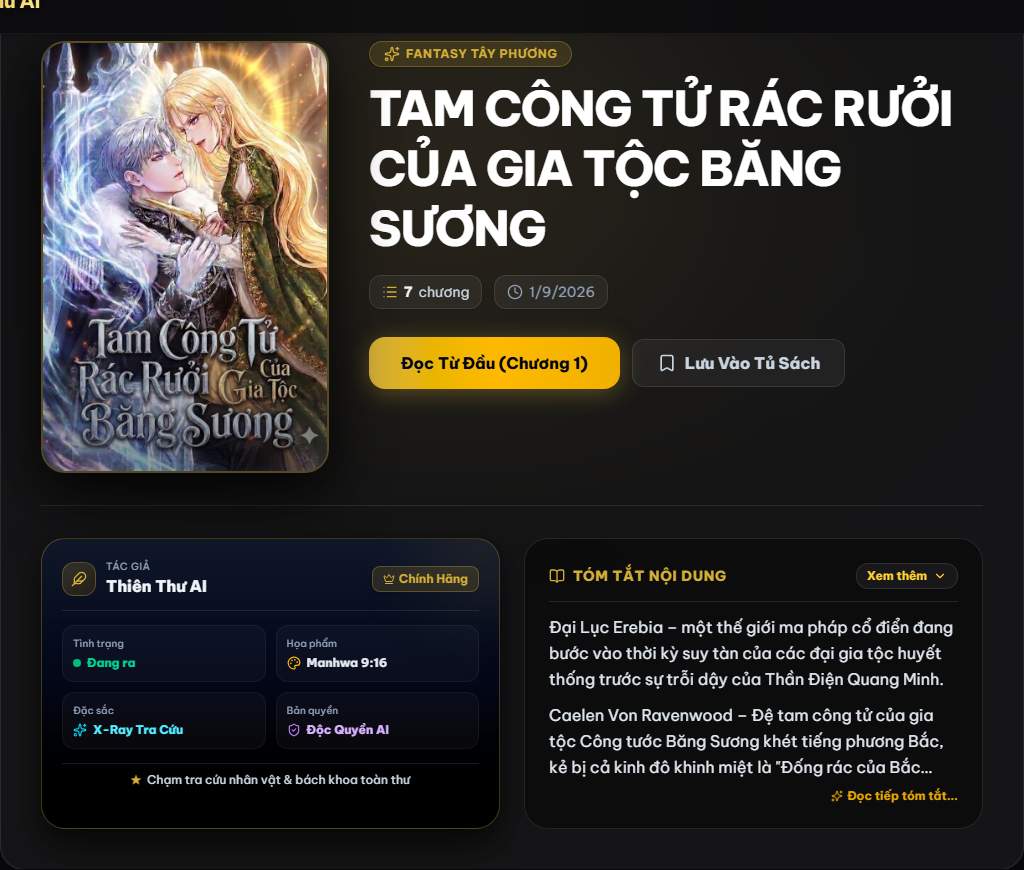
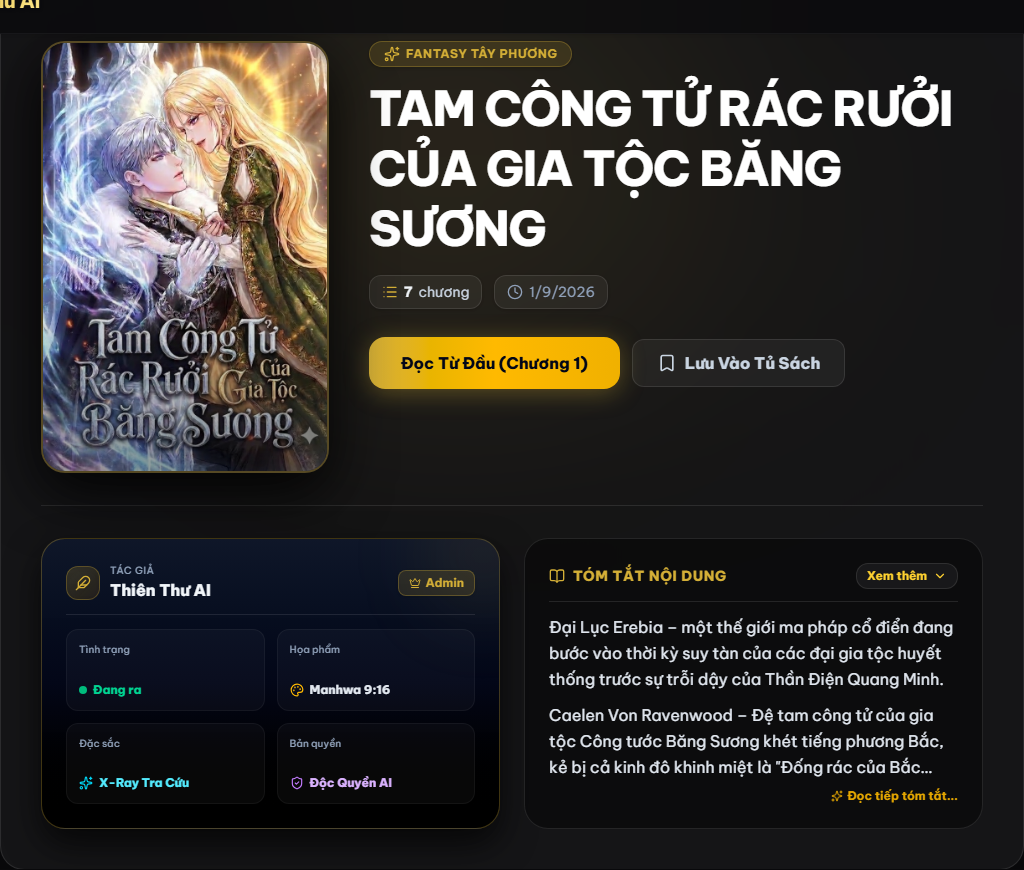
refactor(ui): update author badge to Admin and remove bottom tagline from story specs card

Changed region(s): [[0.0625, 0.6207, 0.4062, 0.931], [0.3438, 0.6517, 0.4688, 0.6828]]

diff --git a/src/app/truyen/[slug]/page.tsx b/src/app/truyen/[slug]/page.tsx
@@ -14,12 +14,12 @@ import { StorySummary } from "@/components/StorySummary";
 
 function StorySpecsCard({ className = "" }: { className?: string }) {
   return (
-    <div className={`relative overflow-hidden bg-gradient-to-b from-slate-900/90 via-slate-950/95 to-black border border-[#d4af37]/30 hover:border-[#d4af37]/60 rounded-2xl sm:rounded-3xl p-3.5 sm:p-4 md:p-5 shadow-[0_15px_35px_rgba(0,0,0,0.7)] backdrop-blur-xl transition-all duration-300 group space-y-3 sm:space-y-3.5 ${className}`}>
+    <div className={`relative overflow-hidden bg-gradient-to-b from-slate-900/90 via-slate-950/95 to-black border border-[#d4af37]/30 hover:border-[#d4af37]/60 rounded-2xl sm:rounded-3xl p-4 sm:p-5 md:p-6 shadow-[0_15px_35px_rgba(0,0,0,0.7)] backdrop-blur-xl transition-all duration-300 group flex flex-col justify-between space-y-3.5 ${className}`}>
       {/* Subtle top-right golden aurora ambient */}
       <div className="absolute -top-10 -right-10 w-28 h-28 bg-[#d4af37]/10 rounded-full blur-2xl pointer-events-none group-hover:bg-[#d4af37]/20 transition-all duration-500" />
 
       {/* Author & Studio Header */}
-      <div className="flex items-center justify-between gap-2 border-b border-white/10 pb-2.5 sm:pb-3">
+      <div className="flex items-center justify-between gap-2 border-b border-white/10 pb-3 shrink-0">
         <div className="flex items-center gap-2 sm:gap-2.5 min-w-0">
           <div className="p-1.5 sm:p-2 rounded-xl bg-gradient-to-br from-[#d4af37]/20 to-amber-500/10 text-[#d4af37] border border-[#d4af37]/30 shadow-inner shrink-0">
             <Feather className="w-3.5 h-3.5 sm:w-4 sm:h-4" />
@@ -29,16 +29,16 @@ function StorySpecsCard({ className = "" }: { className?: string }) {
             <p className="font-extrabold text-xs sm:text-sm md:text-base text-slate-100 truncate">Thiên Thư AI</p>
           </div>
         </div>
-        <span className="inline-flex items-center gap-1 px-2 py-0.5 sm:px-2.5 sm:py-1 rounded-lg text-[10px] sm:text-xs font-bold bg-[#d4af37]/15 text-[#d4af37] border border-[#d4af37]/30 shadow-sm shrink-0">
+        <span className="inline-flex items-center gap-1 px-2.5 py-1 rounded-lg text-[10px] sm:text-xs font-bold bg-[#d4af37]/15 text-[#d4af37] border border-[#d4af37]/30 shadow-sm shrink-0">
           <Crown className="w-3 h-3 text-[#d4af37]" />
-          <span>Chính Hãng</span>
+          <span>Admin</span>
         </span>
       </div>
 
       {/* 2x2 Feature Highlights Grid */}
-      <div className="grid grid-cols-2 gap-2 sm:gap-2.5 text-left">
+      <div className="grid grid-cols-2 gap-2.5 sm:gap-3 text-left flex-1 items-stretch">
         {/* 1. Tình trạng */}
-        <div className="p-2 sm:p-2.5 rounded-xl bg-white/[0.03] border border-white/5 hover:border-emerald-500/30 transition-all flex flex-col justify-between min-w-0">
+        <div className="p-2.5 sm:p-3 rounded-xl bg-white/[0.03] border border-white/5 hover:border-emerald-500/30 transition-all flex flex-col justify-between min-w-0">
           <span className="text-[10px] text-slate-400 font-medium">Tình trạng</span>
           <div className="flex items-center gap-1.5 mt-1 min-w-0">
             <span className="relative flex h-2 w-2 shrink-0">
@@ -50,7 +50,7 @@ function StorySpecsCard({ className = "" }: { className?: string }) {
         </div>
 
         {/* 2. Họa phẩm */}
-        <div className="p-2 sm:p-2.5 rounded-xl bg-white/[0.03] border border-white/5 hover:border-amber-500/30 transition-all flex flex-col justify-between min-w-0">
+        <div className="p-2.5 sm:p-3 rounded-xl bg-white/[0.03] border border-white/5 hover:border-amber-500/30 transition-all flex flex-col justify-between min-w-0">
           <span className="text-[10px] text-slate-400 font-medium">Họa phẩm</span>
           <div className="flex items-center gap-1.5 mt-1 min-w-0">
             <Palette className="w-3.5 h-3.5 text-amber-400 shrink-0" />
@@ -59,7 +59,7 @@ function StorySpecsCard({ className = "" }: { className?: string }) {
         </div>
 
         {/* 3. Tương tác X-Ray */}
-        <div className="p-2 sm:p-2.5 rounded-xl bg-white/[0.03] border border-white/5 hover:border-cyan-500/30 transition-all flex flex-col justify-between min-w-0">
+        <div className="p-2.5 sm:p-3 rounded-xl bg-white/[0.03] border border-white/5 hover:border-cyan-500/30 transition-all flex flex-col justify-between min-w-0">
           <span className="text-[10px] text-slate-400 font-medium">Đặc sắc</span>
           <div className="flex items-center gap-1.5 mt-1 min-w-0">
             <Sparkles className="w-3.5 h-3.5 text-cyan-400 shrink-0" />
@@ -68,19 +68,13 @@ function StorySpecsCard({ className = "" }: { className?: string }) {
         </div>
 
         {/* 4. Bản quyền */}
-        <div className="p-2 sm:p-2.5 rounded-xl bg-white/[0.03] border border-white/5 hover:border-purple-500/30 transition-all flex flex-col justify-between min-w-0">
+        <div className="p-2.5 sm:p-3 rounded-xl bg-white/[0.03] border border-white/5 hover:border-purple-500/30 transition-all flex flex-col justify-between min-w-0">
           <span className="text-[10px] text-slate-400 font-medium">Bản quyền</span>
           <div className="flex items-center gap-1.5 mt-1 min-w-0">
             <ShieldCheck className="w-3.5 h-3.5 text-purple-400 shrink-0" />
             <span className="font-extrabold text-[11px] sm:text-xs text-purple-300 whitespace-nowrap">Độc Quyền AI</span>
           </div>
         </div>
-      </div>
-
-      {/* Bottom Feature Tagline */}
-      <div className="pt-2 border-t border-white/10 flex items-center justify-center gap-1.5 text-[10px] sm:text-xs text-slate-300 font-medium text-center">
-        <span className="text-[#d4af37] font-bold">★</span>
-        <span>Chạm tra cứu nhân vật & bách khoa toàn thư</span>
       </div>
     </div>
   );
